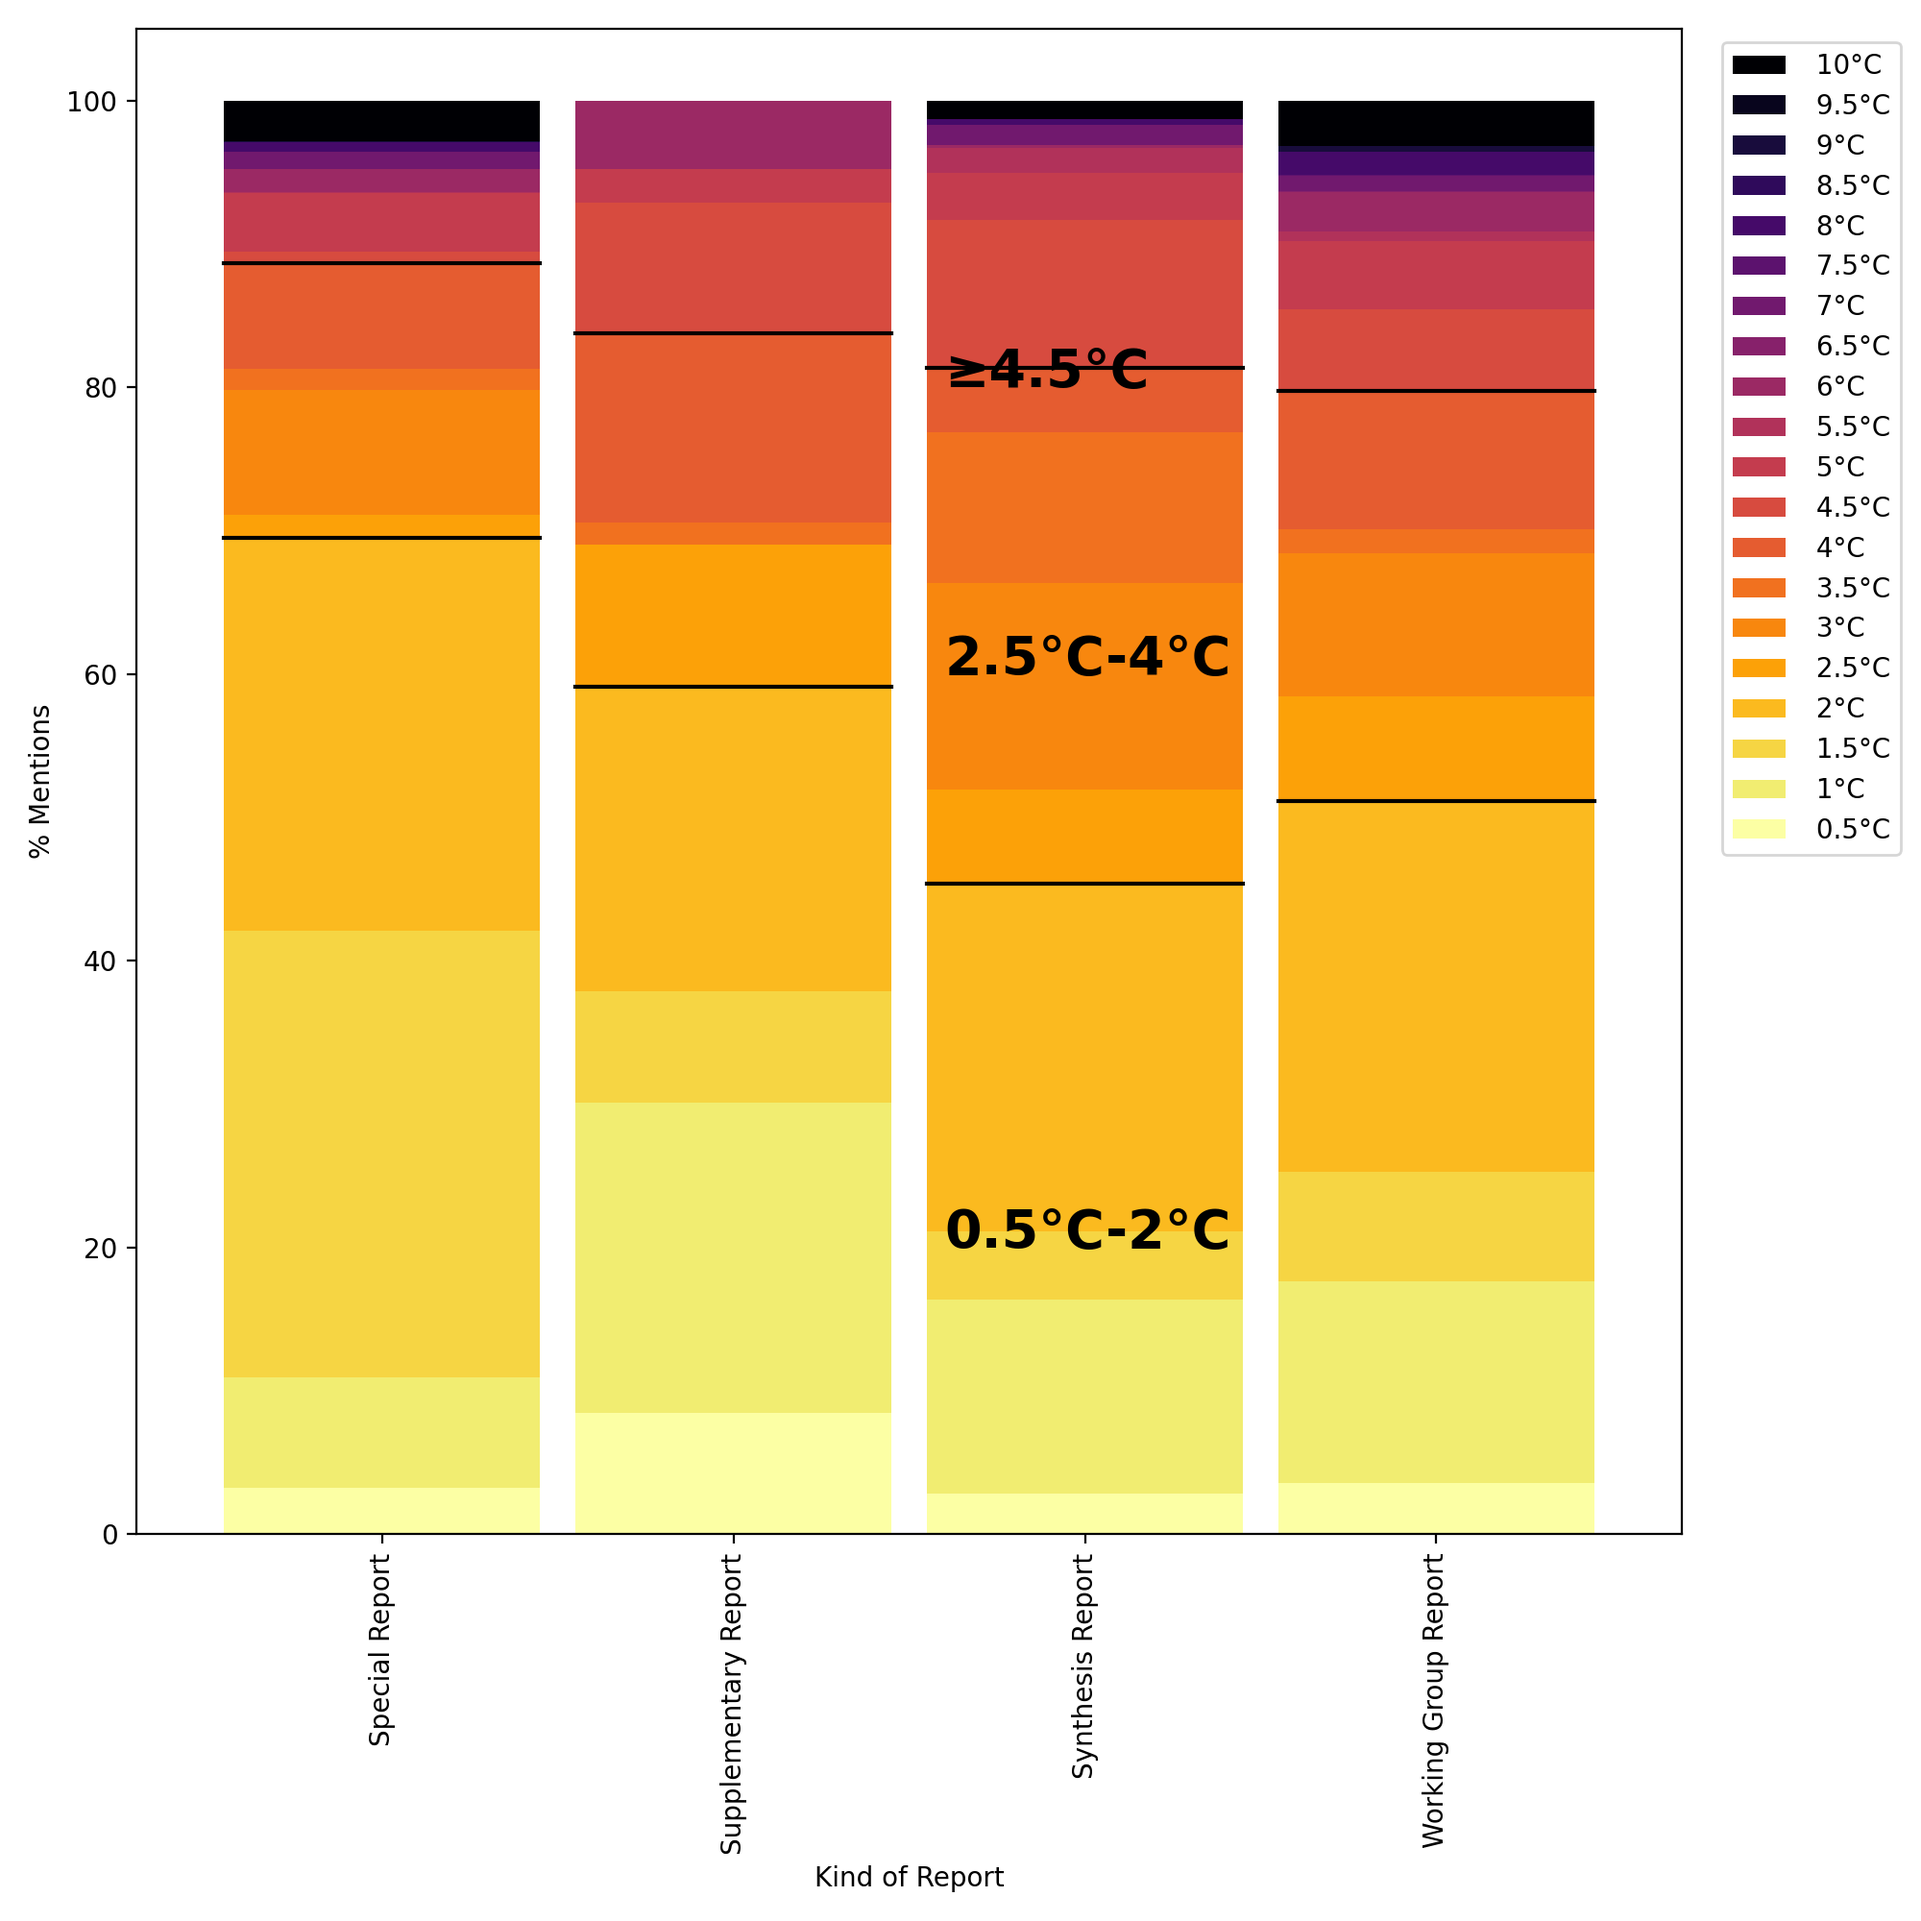
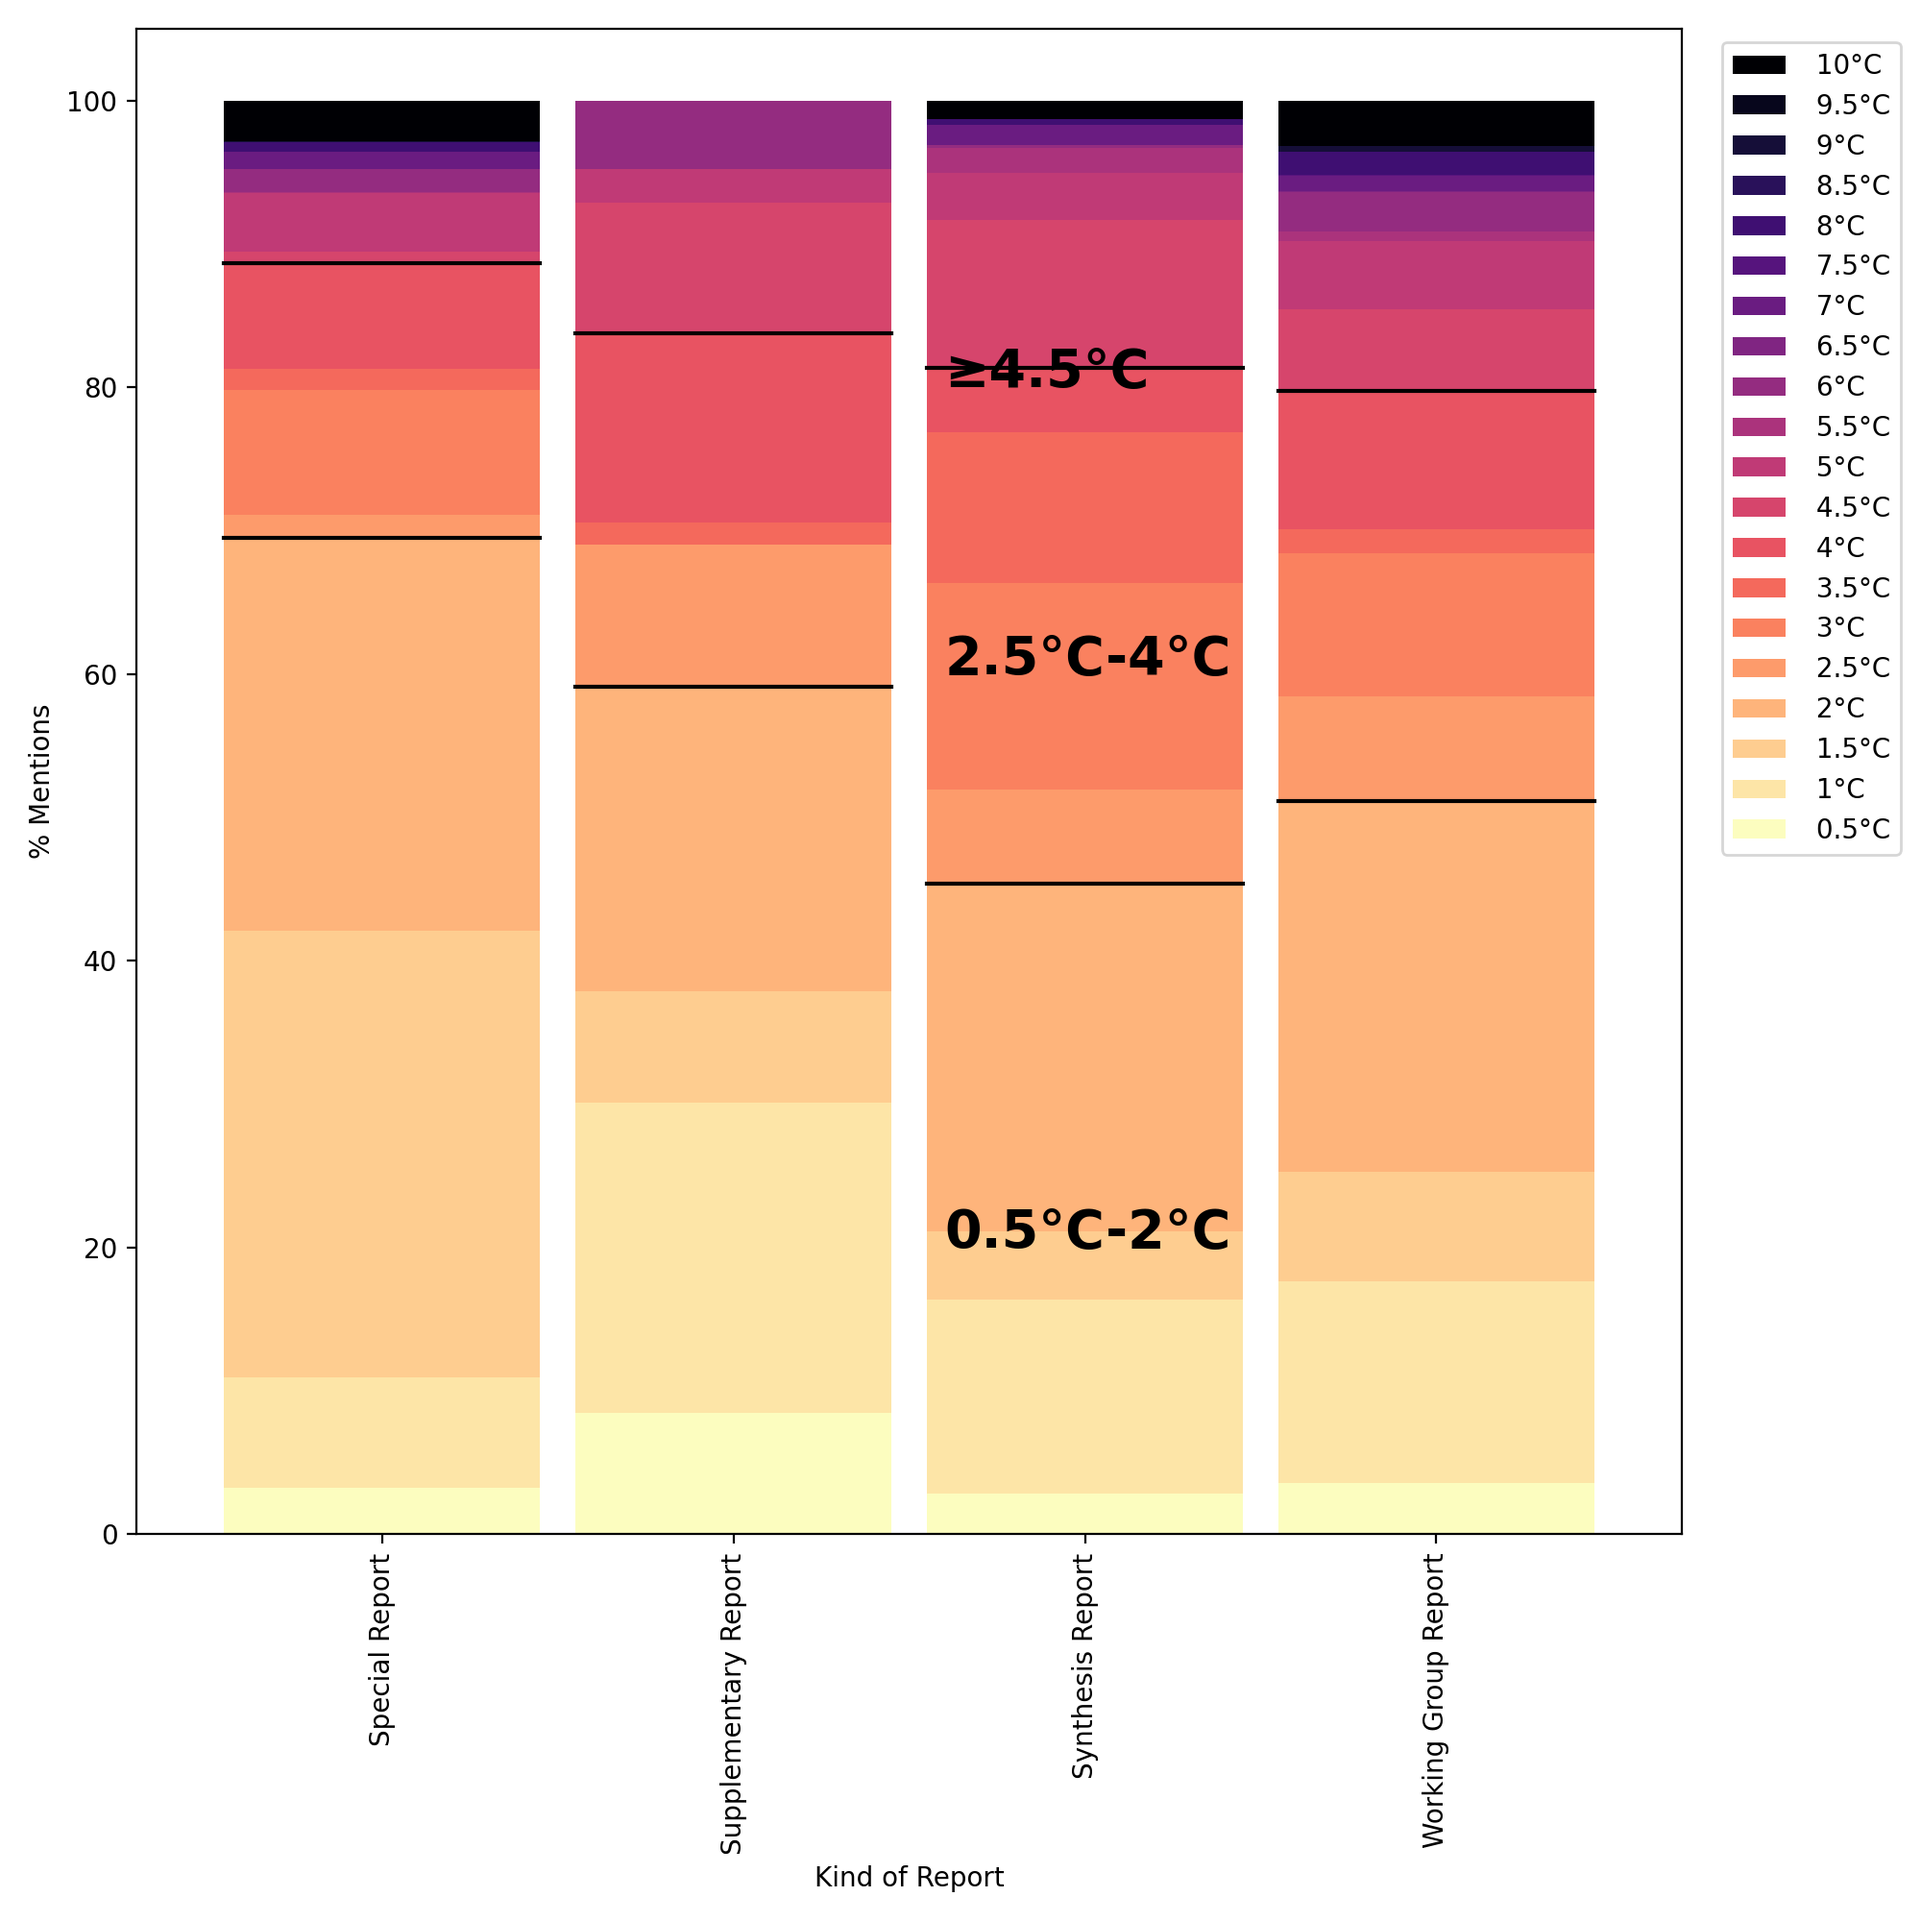
misc

diff --git a/figure_1.py b/figure_1.py
@@ -146,7 +146,7 @@ if __name__ == "__main__":
     # Define basic stuff
     # exclude reports with only few temperature mentions, as they distort the picture
     min_temp_found = 10
-    cmap = "inferno_r"
+    cmap = "magma_r"
     
     # get the data    
     ipcc_counts = rp_da.read_ipcc_counts()
